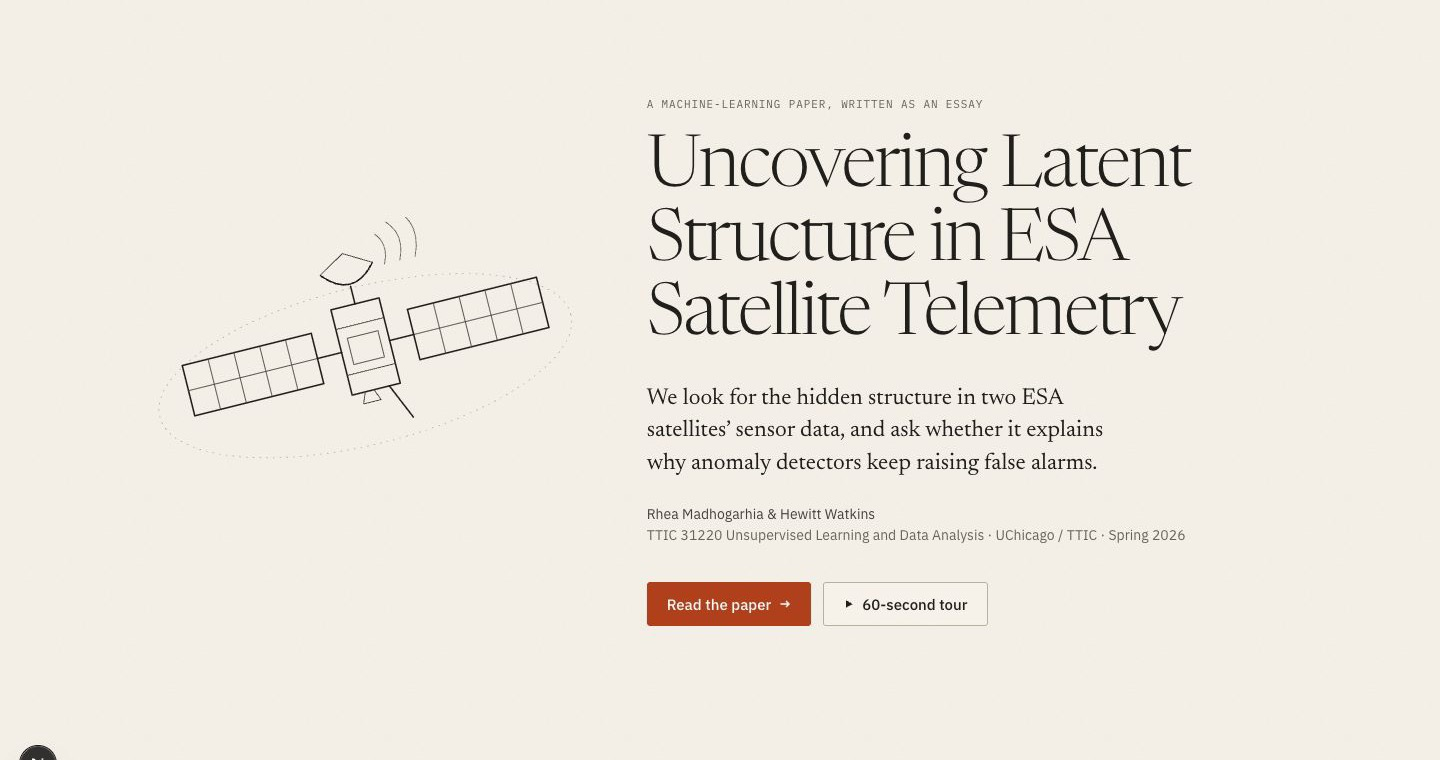
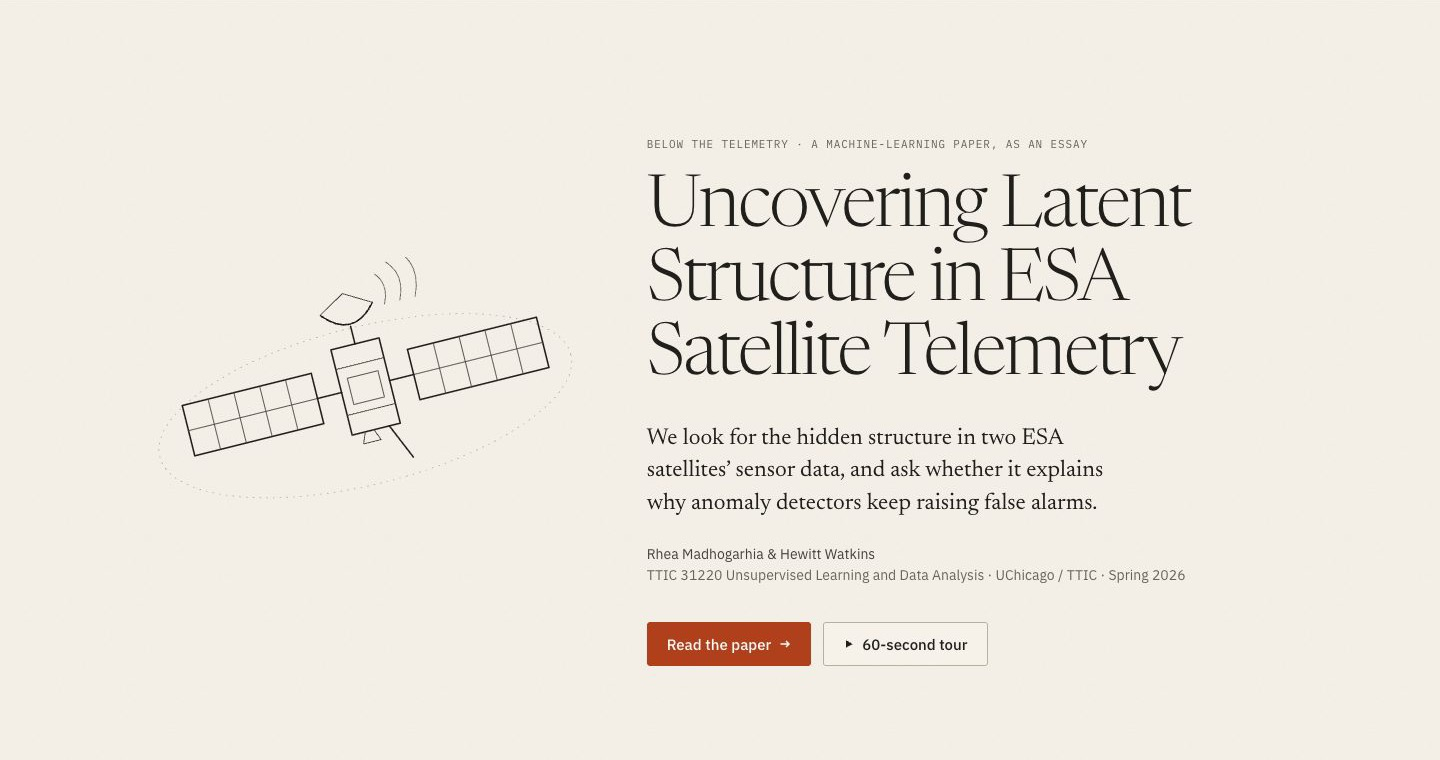
final site: name it Below the Telemetry (hub card, header, hero eyebrow, tab title)
Claude-Session: https://claude.ai/code/session_01LWREgaJQVJ93rDGqNwTobf

diff --git a/src/app/page.tsx b/src/app/page.tsx
@@ -150,9 +150,9 @@ export default function Hub() {
                 Final site
               </p>
               <h3 className="mt-5 text-3xl font-semibold leading-[1.05] tracking-[-0.025em] md:text-4xl">
-                The Essay
+                Below the Telemetry
               </h3>
-              <p className="mt-2 font-mono text-xs text-neutral-500">{refinedPaper.name} · /lucid/essay</p>
+              <p className="mt-2 font-mono text-xs text-neutral-500">{refinedPaper.name} · an essay · /lucid/essay</p>
               <p className="mt-4 text-[15px] leading-relaxed text-neutral-700">
                 The paper as one paced long read: who it&apos;s for and why the data matters, then the data, the
                 methods, the results and the conclusions, with interactive figures placed exactly where the text
@@ -172,7 +172,7 @@ export default function Hub() {
               <strong className="font-medium text-neutral-900">{refinedPaper.name}.</strong> The paper is the subject, so
               the site reads like a beautifully typeset journal page: a serif for the argument, ink-blue and ochre plot
               lines named by matching words in the text, and one vermilion action. Of three iterations in that style,
-              the <strong className="font-medium text-neutral-900">Essay</strong> won: a researcher meeting this work for
+              the essay, <strong className="font-medium text-neutral-900">Below the Telemetry</strong>, won: a researcher meeting this work for
               the first time learns it in order, in one voice, and can check every number against the page of the
               paper that backs it.
             </p>

diff --git a/src/app/lucid/essay/site.tsx b/src/app/lucid/essay/site.tsx
@@ -498,7 +498,7 @@ function Header({ m, setM }: { m: M; setM: (m: M) => void }) {
       <div className={`${WRAP} flex h-14 items-center gap-2 sm:gap-3`}>
         <Link href="/" className={`${SANS} ${link} -ml-1 shrink-0 px-1 py-2 text-[13px] font-medium no-underline hover:underline`}>← Hub</Link>
         <span aria-hidden className="h-5 w-px shrink-0 bg-[var(--rule)] max-sm:hidden" />
-        <a href="#top" className={`${SERIF} ${FOCUS} min-w-0 truncate rounded-[2px] text-[16px] max-sm:hidden`}>ESA telemetry</a>
+        <a href="#top" className={`${SERIF} ${FOCUS} min-w-0 truncate rounded-[2px] text-[16px] max-sm:hidden`}>Below the Telemetry</a>
         <nav aria-label="Sections" className="ml-auto hidden items-center 2xl:flex">{NAV.map((n) => item(n))}</nav>
         <div className="ml-auto flex shrink-0 items-center gap-2 2xl:ml-3">
           <span aria-hidden className={`${SANS} text-[13px] text-[var(--muted)] max-md:hidden`}>Mission</span>
@@ -528,7 +528,7 @@ function Hero() {
         <Satellite />
       </div>
       <div className="lg:col-span-7">
-        <p className={`${eyebrow} rps-in`}>A machine-learning paper, written as an essay</p>
+        <p className={`${eyebrow} rps-in`}>Below the Telemetry · a machine-learning paper, as an essay</p>
         <h1 id="rps-h1" tabIndex={-1} className={`${SERIF} rps-in mt-5 max-w-[17ch] text-[clamp(2.4rem,5vw,4.6rem)] leading-[1.03] font-light tracking-[-0.03em] outline-none`} style={{ animationDelay: "80ms" }}>
           Uncovering Latent Structure in ESA Satellite Telemetry
         </h1>

diff --git a/src/app/lucid/essay/page.tsx b/src/app/lucid/essay/page.tsx
@@ -13,7 +13,7 @@ const sans = IBM_Plex_Sans({ subsets: ["latin"], weight: ["400", "500", "600"], 
 const mono = IBM_Plex_Mono({ subsets: ["latin"], weight: ["400", "500", "600"], variable: "--rp-mono-face" });
 
 export const metadata: Metadata = {
-  title: "Uncovering Latent Structure in ESA Satellite Telemetry · The Essay · Hewitt Watkins",
+  title: "Below the Telemetry · Uncovering Latent Structure in ESA Satellite Telemetry · Hewitt Watkins",
   description: "A long-read essay on our TTIC 31220 paper: what hidden structure lies in two ESA satellites’ telemetry, and whether it explains why anomaly detectors keep raising false alarms.",
 };
 

diff --git a/DESIGN_LOG.md b/DESIGN_LOG.md
@@ -185,7 +185,7 @@ Append as decisions happen, newest at the bottom.
 - Remaining honest caveats on all three: the long-fault figure uses the saved K = 8 K-Means run, not the paper's K = 2
   (labelled); the paper's text says K ∈ {2…20} while the saved sweep runs to 30 (copy avoids stating a range).
 
-## 2026-10-13 · The final site: the Lucid Essay
+## 2026-10-13 · The final site: Below the Telemetry (the Lucid Essay)
 - **The pick.** Hewitt chose **A · The Essay** (`/lucid/essay`) as the final site. The hub's hero now has one primary action ("Open the final site"), and **03 The Final Site** is one large card with the Essay's opening. B · The Paper, Alive and C · The Explainer moved to **05 Other Iterations**, next to the earlier finals and first builds.
 - **Why the Essay.** The grader is a researcher who knows nothing about the project. The Essay teaches the work in order and in one voice: context, data, methods, results, conclusions, then the paper. Each interactive figure sits at the sentence that needs it.
 - **Authorship.** The user asked to remove every who-built-what line ("that is not needed"). The site keeps "Designed & built by Hewitt Watkins" and the paper citation with both authors.
@@ -199,3 +199,4 @@ Append as decisions happen, newest at the bottom.
   - **States.** Every control has hover, focus-visible, pressed, selected and disabled states. Examples are the mission toggle, the method picker and the reader controls. Evidence: the Tab walk.
   - **Visual style.** It is built from the Lucid design system's tokens, components and motion, with an ink line-drawn satellite, so it reads as the style picked from the mood board.
   - **Simplicity.** Every fact comes from the paper, one sentence leads each figure, and there are no credits lists or duplicate controls.
+- **The name.** I offered five names and Hewitt chose **Below the Telemetry**: the site looks under the raw sensor data at the structure beneath it. The name appears on the hub card, in the site's header, in its hero eyebrow and in the browser tab title. The paper's own title stays as the H1.
